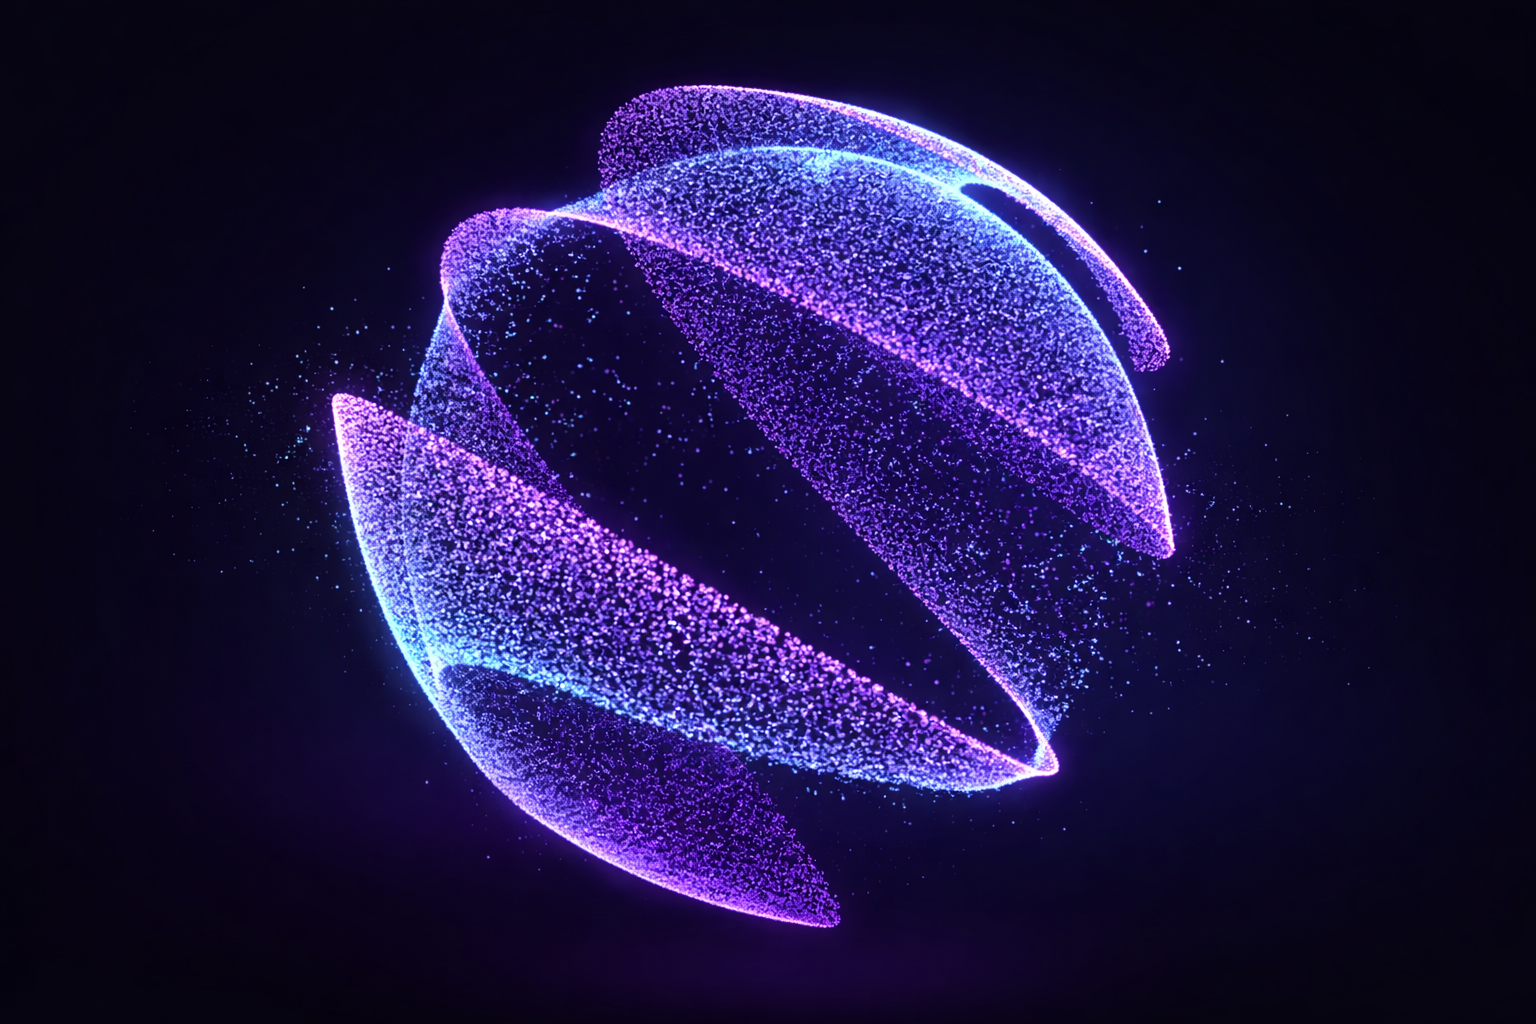
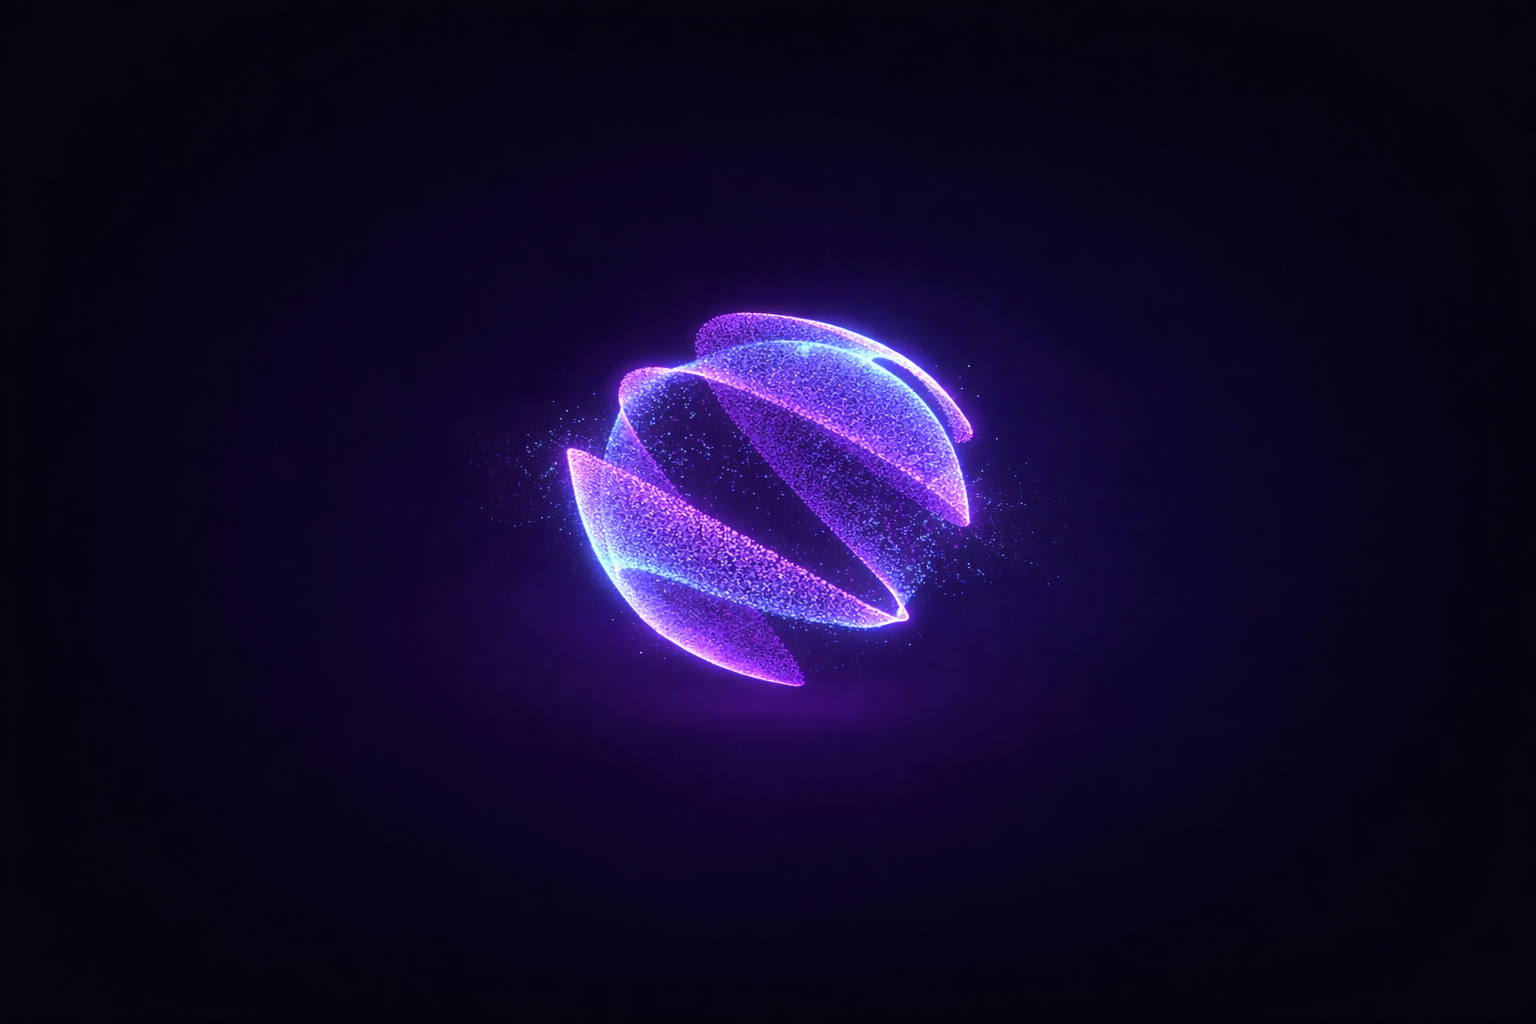
correct image added

diff --git a/accenture-clone-site/dist/assets/front-page-hero-custom-C_5TBqkt.css b/accenture-clone-site/dist/assets/front-page-hero-custom-C_5TBqkt.css
@@ -1,0 +1,1 @@
+#reinvent-hero.cmp-custom__html__wrapper{min-height:421.781px}@media(min-width:426px)and (max-width:768px){#reinvent-hero.cmp-custom__html__wrapper{min-height:560.531px}}@media(min-width:769px)and (max-width:1024px){#reinvent-hero.cmp-custom__html__wrapper{min-height:410.5px}}@media(min-width:1025px){#reinvent-hero.cmp-custom__html__wrapper{min-height:400px}}.hero_custom,.hero_custom *{box-sizing:border-box}.hero_custom{overflow:hidden;position:relative;width:100%;max-width:100vw;min-height:400px;height:auto;background-position:center;background-size:cover;background-repeat:no-repeat;background-color:var(--Dark-Background-Primary);color:var(--Dark-Text-Primary);font-family:Graphik,sans-serif;font-display:swap;--animation-delay-1: .55s;--animation-delay-2: 1.5s;--animation-timing-1: cubic-bezier(.22, 0, .63, 1);--animation-timing-2: cubic-bezier(.38, 0, 0, 1);--Dark-Brand-Primary: #F3C623;--Dark-Brand-Secondary: #C79200;--Dark-Brand-Tertiary: #7A5A00;--Dark-Background-Primary: #000;--Dark-Text-Primary: #fff}.hero_custom__background{position:absolute;z-index:0;inset:0;width:100%;height:100%;object-fit:cover;object-position:center;animation:hero-custom-background 1.55s var(--animation-timing-1) var(--animation-delay-1) backwards}.hero_custom__grid{position:relative;width:100%;min-height:40vh;max-width:1920px;margin:0 auto;height:max-content;display:grid;padding:24px 16px;grid-template-columns:repeat(4,1fr);column-gap:16px;row-gap:16px;--video-button-margin-left: 16px;--video-button-margin-bottom: 24px}.hero_custom__video_button{position:absolute;z-index:1;left:var(--video-button-margin-left, 16px);bottom:var(--video-button-margin-bottom, 24px);height:48px;width:48px;border:none;background:none;color:var(--Dark-Text-Primary);fill:var(--Dark-Text-Primary);display:flex;justify-content:center;align-items:center;cursor:pointer;animation:hero-custom-background 1.55s var(--animation-timing-1) var(--animation-delay-1) backwards}.hero_custom__video_button--hidden{display:none}.hero_custom__headline{position:relative;z-index:1;display:flex;flex-direction:column;margin:0;font-weight:600;line-height:1.15;height:max-content;text-wrap:balance;padding-bottom:40px;animation:hero-custom-headline .75s var(--animation-timing-2) var(--animation-delay-1) backwards;grid-column:1 / -1;font-size:48px;font-size:clamp(42px,11vw,50px);letter-spacing:-1.44px}.hero_custom__headline__text{--animation-translation-x: 10%;--animation-duration: .75s;--animation-timing: var(--animation-timing-2);--animation-delay: var(--animation-delay-2);text-transform:uppercase}.hero_custom__headline__text--left{text-align:left;animation:hero-custom-headline-left var(--animation-duration) var(--animation-timing) var(--animation-delay) backwards}.hero_custom__headline__text--right{display:relative;animation:hero-custom-headline-right var(--animation-duration) var(--animation-timing) var(--animation-delay) backwards;display:flex;align-items:center;justify-content:end}.hero_custom__headline__text--V{position:relative;bottom:.04em;fill:var(--Dark-Brand-Primary);height:.78em;width:.78em;transform:rotate(90deg);animation:hero-custom-headline-V var(--animation-duration) var(--animation-timing) calc(var(--animation-delay) * 2) forwards}.hero_custom__body{z-index:1;position:relative;display:flex;flex-direction:column;justify-content:flex-end;margin:0;animation:hero-custom-body 1.25s var(--animation-timing-2) var(--animation-delay-2) backwards;gap:16px;grid-column:2 / -1;font-size:14px;line-height:1.5;font-weight:400}.hero_custom__body__border{width:72px;height:2px;border-radius:999px;background:linear-gradient(90deg,#f3c623f5,#f3c6238c 45%,#ffffff2e)}.hero_custom__body__hero_text{display:flex;flex-direction:column;gap:16px}.hero_custom__body__hero_text__title{margin:0;line-height:1.575}.hero_custom__cta{display:flex;gap:12px;width:max-content;padding:4px 0;align-items:center;font-weight:500;font-size:14px;color:inherit;text-decoration:none;margin-bottom:8px}.hero_custom__cta__icon{width:36px;height:36px;min-width:36px;border:1px solid rgba(243,198,35,.58);border-radius:999px;background:#f3c6231f;color:#f3c623;display:flex;justify-content:center;align-items:center;transition:transform .18s ease,background-color .18s ease,border-color .18s ease}.hero_custom__cta:focus-visible{outline:2px solid var(--Dark-Brand-Primary);outline-offset:8px}.hero_custom__cta:disabled{opacity:.5;cursor:not-allowed}.hero_custom__cta__icon>svg{width:17px;height:17px;fill:none;stroke:currentColor;stroke-linecap:round;stroke-linejoin:round;stroke-width:1.9}.hero_custom__cta:visited{color:var(--Dark-Text-Primary)}.hero_custom__title{display:none;position:relative;margin:0;font-weight:500;line-height:1.6;font-size:18px;grid-column:1/-1}@keyframes hero-custom-background{0%{opacity:0}to{opacity:1}}@keyframes hero-custom-headline{0%{opacity:0;transform:translateY(20%)}to{opacity:1;transform:translateY(0)}}@keyframes hero-custom-headline-left{0%{transform:translate(var(--animation-translation-x, 10%))}to{transform:translate(0)}}@keyframes hero-custom-headline-right{0%{transform:translate(calc(-1 * var(--animation-translation-x, 10%)))}to{transform:translate(0)}}@keyframes hero-custom-headline-V{0%{transform:rotate(90deg)}to{transform:rotate(0) scale(.95) translate(.025em)}}@keyframes hero-custom-body{0%{opacity:0;transform:translateY(20%)}to{opacity:1;transform:translateY(0)}}@media screen and (min-width:360px){.hero_custom__body{grid-column:2 / -1}}@media screen and (min-width:600px){.hero_custom__grid{padding:48px;grid-template-columns:repeat(8,1fr);column-gap:24px;row-gap:32px;--video-button-margin-left: 36px;--video-button-margin-bottom: 36px}.hero_custom__headline{grid-column:1 / -1;line-height:1.1;font-size:60px;font-size:clamp(48px,12vw,80px);letter-spacing:-2.7px;letter-spacing:clamp(-2.4px,.35vw,-3px)}.hero_custom__body{grid-column:4 / -1;font-size:16px;line-height:1.6;gap:24px}.hero_custom__cta{font-size:16px}}@media screen and (min-width:1024px){.hero_custom__grid{padding:60px 80px;grid-template-columns:repeat(12,1fr);column-gap:32px;--video-button-margin-left: 80px;--video-button-margin-bottom: 30px}.hero_custom__headline{grid-column:1 / span 8;font-size:80px;letter-spacing:-3px}.hero_custom__body{grid-column:-5 / -1;font-size:16px;line-height:1.5}.hero_custom__cta__icon{width:40px;height:40px;min-width:40px}.hero_custom__title{display:block}.hero_custom__cta{margin-bottom:0}}@media screen and (min-width:1440px){.hero_custom__grid{padding:60px 80px;grid-template-columns:repeat(12,1fr);column-gap:40px}.hero_custom__headline{font-size:100px}.hero_custom__body{font-size:16px}.hero_custom__title{font-size:24px}}a.hero_custom__cta_1{text-decoration:none;color:#fff;position:relative;float:left;margin:10px}a.hero_custom__cta_1:hover,a.hero_custom__cta_1:visited,a.hero_custom__cta_1:focus{color:#fff}.hero_cta_2{width:auto;position:relative;display:inline-flex;align-items:center;gap:14px;margin-top:4px}.cta_span{float:none;font-weight:600;letter-spacing:.08em;text-transform:uppercase}.hero_custom__cta__icon{left:0;position:relative}.hero_custom__cta_1:hover .hero_custom__cta__icon,.hero_custom__cta_1:focus-visible .hero_custom__cta__icon{background:#f3c62333;border-color:#f3c623e0;transform:translate(2px)}@media(min-width:768px){button.hero_custom__video_button{bottom:20px;margin:0 3.5%}}.archon-credibility-band{background:transparent;border:0;color:#fff;font-family:Graphik,sans-serif;padding:26px 0 20px;position:relative;z-index:2}.archon-credibility-band__inner{width:min(1440px,calc(100% - 48px));margin:0 auto;display:grid;grid-template-columns:repeat(5,minmax(0,1fr));gap:18px}.archon-credibility-band__item{min-height:100px;background:transparent;border:0;border-left:1px solid rgba(255,255,255,.16);padding:6px 6px 6px 16px;display:flex;flex-direction:column;justify-content:flex-start;gap:7px}.archon-credibility-band__icon{width:18px;height:18px;color:#f3c623;display:inline-flex;align-items:center;justify-content:center}.archon-credibility-band__icon svg{width:100%;height:100%;fill:currentColor}.archon-credibility-band__item h3{margin:0;font-size:18px;font-weight:700;line-height:1.15;letter-spacing:-.01em;color:#fff}.archon-credibility-band__item p{margin:0;color:#ffffffc7;font-size:12px;line-height:1.4;font-weight:500}.archon-countup{font-variant-numeric:tabular-nums}@media(max-width:1200px){.archon-credibility-band__inner{grid-template-columns:repeat(3,minmax(0,1fr))}}@media(max-width:820px){.archon-credibility-band{padding:18px 0 14px}.archon-credibility-band__inner{width:min(1440px,calc(100% - 32px));grid-template-columns:repeat(2,minmax(0,1fr));gap:10px}.archon-credibility-band__item{min-height:104px;padding-left:14px}}@media(max-width:520px){.archon-credibility-band__inner{grid-template-columns:1fr}}#block-tilegrid{content-visibility:auto;contain-intrinsic-size:1400px}#block-tilegrid .rad-content-grid-card{contain:paint}#block-tilegrid .cmp-image__image{backface-visibility:hidden;transform:translateZ(0)}#block-tilegrid .rad-content-grid-card{will-change:transform;transform:translateZ(0)}#block-tilegrid .rad-content-grid-card__front-content,#block-tilegrid .rad-content-grid-card__back-content,#block-tilegrid .rad-content-grid-card__sliding-content{will-change:opacity,transform;backface-visibility:hidden}#block-tilegrid .rad-content-grid-card__sliding-content{position:relative;z-index:2}#block-tilegrid .rad-content-grid-card__back-content{position:relative;z-index:3}#block-tilegrid .rad-content-grid-card,#block-tilegrid .rad-content-grid-card__sliding-content,#block-tilegrid .rad-content-grid-card__full-image,#block-tilegrid .rad-content-grid-card__full-video,#block-tilegrid .rad-content-grid-card__close-button{transition-duration:.28s!important}#block-tilegrid .rad-content-grid-card--open{scale:1.01!important}#block-tilegrid .rad-content-grid-card--open .rad-content-grid-card__full-image,#block-tilegrid .rad-content-grid-card--open .rad-content-grid-card__full-video{filter:none!important;width:100%!important;opacity:.42!important;z-index:1}#block-tilegrid .rad-content-grid-card--open .rad-button{position:absolute!important;right:1.5rem!important;left:auto!important;bottom:.75rem!important;translate:0 0!important;opacity:1!important;visibility:visible!important;z-index:4}

diff --git a/accenture-clone-site/dist/index.html b/accenture-clone-site/dist/index.html
@@ -26,7 +26,7 @@
       content="Archon designs and deploys structured AI and cloud systems that move beyond experimentation."
     >
     <meta itemprop="image" content="/images/hero/cloud.png">
-    <link rel="canonical" href="/assets/index-DllYpORB.html">
+    <link rel="canonical" href="/assets/index-CWA5hJ5i.html">
     <meta property="og:type" content="website">
     <meta property="og:title" content="Archon | AI Transformation, Engineered">
     <meta
@@ -272,7 +272,7 @@
 </style>
   <link rel="stylesheet" crossorigin href="/assets/clientlib-rad.lc-4999ccd97a51a617f941ae6003c8f430-lc-DaISf84j.css">
   <link rel="stylesheet" crossorigin href="/assets/home-page-takeover-COv5Eqf5.css">
-  <link rel="stylesheet" crossorigin href="/assets/front-page-hero-custom-BLz4q7M4.css">
+  <link rel="stylesheet" crossorigin href="/assets/front-page-hero-custom-C_5TBqkt.css">
 </head>
     <body class="radicalaccenturedesign generic page basicpage " id="page-f3f3debf6f" data-barba="wrapper" data-cmp-data-layer-enabled="">
         
@@ -1595,7 +1595,7 @@
 <div data-cmp-is="image" data-cmp-dmimage="" data-cmp-smartcroprendition="rad-card-full" data-cmp-src="images/cards/home-core-operational-ai.svg" data-asset-id="4236911d-80eb-4ab2-8887-e63dd6e79684" data-cmp-filereference="/content/dam/accenture/final/accenture-com/imagery-14/Pulse-Of-Change-2026-Glance-Image-600x848.jpg" id="image-" data-cmp-data-layer="{&quot;image-&quot;:{&quot;@type&quot;:&quot;cio-sites/components/rad/radimage&quot;,&quot;analytics-engagement&quot;:&quot;true&quot;,&quot;analytics-link-type&quot;:&quot;engagement&quot;,&quot;analytics-link-name&quot;:&quot;&quot;,&quot;analytics-module-name&quot;:&quot;radimage-1&quot;}}" data-cmp-hook-image="imageV3" class="cmp-image
      " itemscope="" itemtype="http://schema.org/ImageObject">
     
-        <img src="/assets/operational_ai-BeeyD9Dl.png" loading="lazy" decoding="async" fetchpriority="low" class="cmp-image__image" itemprop="contentUrl" width="1536" height="1024" alt="">
+        <img src="/assets/operational_ai-BeeyD9Dl.png" loading="lazy" decoding="async" fetchpriority="low" class="cmp-image__image" itemprop="contentUrl" width="600" height="848" alt="">
     
     
     

diff --git a/accenture-clone-site/dist/css/front-page-hero-custom.css b/accenture-clone-site/dist/css/front-page-hero-custom.css
@@ -633,37 +633,3 @@
             visibility: visible !important;
             z-index: 4;
         }
-
-        /* Make the first homepage tile read like a true card, not a hero */
-        #research-report-e1abd46e2f {
-            background:
-                linear-gradient(180deg, rgba(8, 11, 26, 0.98) 0%, rgba(12, 15, 34, 0.96) 100%) !important;
-        }
-
-        #research-report-e1abd46e2f .rad-content-grid-card__full-image {
-            inset: clamp(8.75rem, 19vw, 10.75rem) clamp(0.9rem, 2vw, 1.2rem) clamp(1rem, 2vw, 1.2rem) !important;
-            border: 1px solid rgba(148, 115, 255, 0.18);
-            border-radius: 1rem;
-            overflow: hidden;
-            background:
-                radial-gradient(circle at 50% 42%, rgba(104, 71, 255, 0.28) 0%, rgba(18, 14, 40, 0.94) 58%, rgba(8, 10, 24, 1) 100%);
-            box-shadow:
-                inset 0 1px 0 rgba(255, 255, 255, 0.05),
-                0 18px 40px rgba(0, 0, 0, 0.28);
-        }
-
-        #research-report-e1abd46e2f .rad-content-grid-card__full-image .image,
-        #research-report-e1abd46e2f .rad-content-grid-card__full-image .cmp-image {
-            width: 100%;
-            height: 100%;
-        }
-
-        #research-report-e1abd46e2f .cmp-image__image {
-            width: 100% !important;
-            height: 100% !important;
-            object-fit: contain;
-            object-position: center center;
-            padding: clamp(0.85rem, 2vw, 1.15rem);
-            transform: none !important;
-            filter: drop-shadow(0 10px 24px rgba(126, 88, 255, 0.22));
-        }

diff --git a/accenture-clone-site/dist/assets/index-CWA5hJ5i.html b/accenture-clone-site/dist/assets/index-CWA5hJ5i.html
@@ -1596,7 +1596,7 @@
 <div data-cmp-is="image" data-cmp-dmimage="" data-cmp-smartcroprendition="rad-card-full" data-cmp-src="images/cards/home-core-operational-ai.svg" data-asset-id="4236911d-80eb-4ab2-8887-e63dd6e79684" data-cmp-filereference="/content/dam/accenture/final/accenture-com/imagery-14/Pulse-Of-Change-2026-Glance-Image-600x848.jpg" id="image-" data-cmp-data-layer="{&quot;image-&quot;:{&quot;@type&quot;:&quot;cio-sites/components/rad/radimage&quot;,&quot;analytics-engagement&quot;:&quot;true&quot;,&quot;analytics-link-type&quot;:&quot;engagement&quot;,&quot;analytics-link-name&quot;:&quot;&quot;,&quot;analytics-module-name&quot;:&quot;radimage-1&quot;}}" data-cmp-hook-image="imageV3" class="cmp-image
      " itemscope="" itemtype="http://schema.org/ImageObject">
     
-        <img src="images/cards/operational_ai.png" loading="lazy" decoding="async" fetchpriority="low" class="cmp-image__image" itemprop="contentUrl" width="1536" height="1024" alt="">
+        <img src="images/cards/operational_ai.png" loading="lazy" decoding="async" fetchpriority="low" class="cmp-image__image" itemprop="contentUrl" width="600" height="848" alt="">
     
     
     

diff --git a/accenture-clone-site/dist/ae-en.html b/accenture-clone-site/dist/ae-en.html
@@ -476,7 +476,7 @@
 </style>
   <link rel="stylesheet" crossorigin href="/assets/clientlib-rad.lc-4999ccd97a51a617f941ae6003c8f430-lc-DaISf84j.css">
   <link rel="stylesheet" crossorigin href="/assets/home-page-takeover-COv5Eqf5.css">
-  <link rel="stylesheet" crossorigin href="/assets/front-page-hero-custom-BLz4q7M4.css">
+  <link rel="stylesheet" crossorigin href="/assets/front-page-hero-custom-C_5TBqkt.css">
 </head>
     <body class="radicalaccenturedesign generic page basicpage " id="page-f9c1623bd1" data-barba="wrapper" data-cmp-data-layer-enabled="">
         <script>

diff --git a/accenture-clone-site/dist/au-en.html b/accenture-clone-site/dist/au-en.html
@@ -463,7 +463,7 @@
 </style>
   <link rel="stylesheet" crossorigin href="/assets/clientlib-rad.lc-4999ccd97a51a617f941ae6003c8f430-lc-DaISf84j.css">
   <link rel="stylesheet" crossorigin href="/assets/home-page-takeover-COv5Eqf5.css">
-  <link rel="stylesheet" crossorigin href="/assets/front-page-hero-custom-BLz4q7M4.css">
+  <link rel="stylesheet" crossorigin href="/assets/front-page-hero-custom-C_5TBqkt.css">
 </head>
     <body class="radicalaccenturedesign generic page basicpage " id="page-af6daa324a" data-barba="wrapper" data-cmp-data-layer-enabled="">
         <script>

diff --git a/accenture-clone-site/dist/be-en.html b/accenture-clone-site/dist/be-en.html
@@ -476,7 +476,7 @@
 </style>
   <link rel="stylesheet" crossorigin href="/assets/clientlib-rad.lc-4999ccd97a51a617f941ae6003c8f430-lc-DaISf84j.css">
   <link rel="stylesheet" crossorigin href="/assets/home-page-takeover-COv5Eqf5.css">
-  <link rel="stylesheet" crossorigin href="/assets/front-page-hero-custom-BLz4q7M4.css">
+  <link rel="stylesheet" crossorigin href="/assets/front-page-hero-custom-C_5TBqkt.css">
 </head>
     <body class="radicalaccenturedesign generic page basicpage " id="page-e5d9902047" data-barba="wrapper" data-cmp-data-layer-enabled="">
         <script>

diff --git a/accenture-clone-site/dist/bg-en.html b/accenture-clone-site/dist/bg-en.html
@@ -463,7 +463,7 @@
 </style>
   <link rel="stylesheet" crossorigin href="/assets/clientlib-rad.lc-4999ccd97a51a617f941ae6003c8f430-lc-DaISf84j.css">
   <link rel="stylesheet" crossorigin href="/assets/home-page-takeover-COv5Eqf5.css">
-  <link rel="stylesheet" crossorigin href="/assets/front-page-hero-custom-BLz4q7M4.css">
+  <link rel="stylesheet" crossorigin href="/assets/front-page-hero-custom-C_5TBqkt.css">
 </head>
     <body class="radicalaccenturedesign generic page basicpage " id="page-7e8414cb44" data-barba="wrapper" data-cmp-data-layer-enabled="">
         <script>

diff --git a/accenture-clone-site/dist/br-pt.html b/accenture-clone-site/dist/br-pt.html
@@ -459,7 +459,7 @@
 </style>
   <link rel="stylesheet" crossorigin href="/assets/clientlib-rad.lc-4999ccd97a51a617f941ae6003c8f430-lc-DaISf84j.css">
   <link rel="stylesheet" crossorigin href="/assets/home-page-takeover-COv5Eqf5.css">
-  <link rel="stylesheet" crossorigin href="/assets/front-page-hero-custom-BLz4q7M4.css">
+  <link rel="stylesheet" crossorigin href="/assets/front-page-hero-custom-C_5TBqkt.css">
 </head>
     <body class="radicalaccenturedesign generic page basicpage " id="page-1c122469cf" data-barba="wrapper" data-cmp-data-layer-enabled="">
         <script>

diff --git a/accenture-clone-site/dist/ca-en.html b/accenture-clone-site/dist/ca-en.html
@@ -463,7 +463,7 @@
 </style>
   <link rel="stylesheet" crossorigin href="/assets/clientlib-rad.lc-4999ccd97a51a617f941ae6003c8f430-lc-DaISf84j.css">
   <link rel="stylesheet" crossorigin href="/assets/home-page-takeover-COv5Eqf5.css">
-  <link rel="stylesheet" crossorigin href="/assets/front-page-hero-custom-BLz4q7M4.css">
+  <link rel="stylesheet" crossorigin href="/assets/front-page-hero-custom-C_5TBqkt.css">
 </head>
     <body class="radicalaccenturedesign generic page basicpage " id="page-3b03c8047d" data-barba="wrapper" data-cmp-data-layer-enabled="">
         <script>

diff --git a/accenture-clone-site/dist/ch-en.html b/accenture-clone-site/dist/ch-en.html
@@ -463,7 +463,7 @@
 </style>
   <link rel="stylesheet" crossorigin href="/assets/clientlib-rad.lc-4999ccd97a51a617f941ae6003c8f430-lc-DaISf84j.css">
   <link rel="stylesheet" crossorigin href="/assets/home-page-takeover-COv5Eqf5.css">
-  <link rel="stylesheet" crossorigin href="/assets/front-page-hero-custom-BLz4q7M4.css">
+  <link rel="stylesheet" crossorigin href="/assets/front-page-hero-custom-C_5TBqkt.css">
 </head>
     <body class="radicalaccenturedesign generic page basicpage " id="page-fb680c9097" data-barba="wrapper" data-cmp-data-layer-enabled="">
         <script>

diff --git a/accenture-clone-site/dist/cn-en.html b/accenture-clone-site/dist/cn-en.html
@@ -463,7 +463,7 @@
 </style>
   <link rel="stylesheet" crossorigin href="/assets/clientlib-rad.lc-4999ccd97a51a617f941ae6003c8f430-lc-DaISf84j.css">
   <link rel="stylesheet" crossorigin href="/assets/home-page-takeover-COv5Eqf5.css">
-  <link rel="stylesheet" crossorigin href="/assets/front-page-hero-custom-BLz4q7M4.css">
+  <link rel="stylesheet" crossorigin href="/assets/front-page-hero-custom-C_5TBqkt.css">
 </head>
     <body class="radicalaccenturedesign generic page basicpage " id="page-e81c7cb529" data-barba="wrapper" data-cmp-data-layer-enabled="">
         <script>
